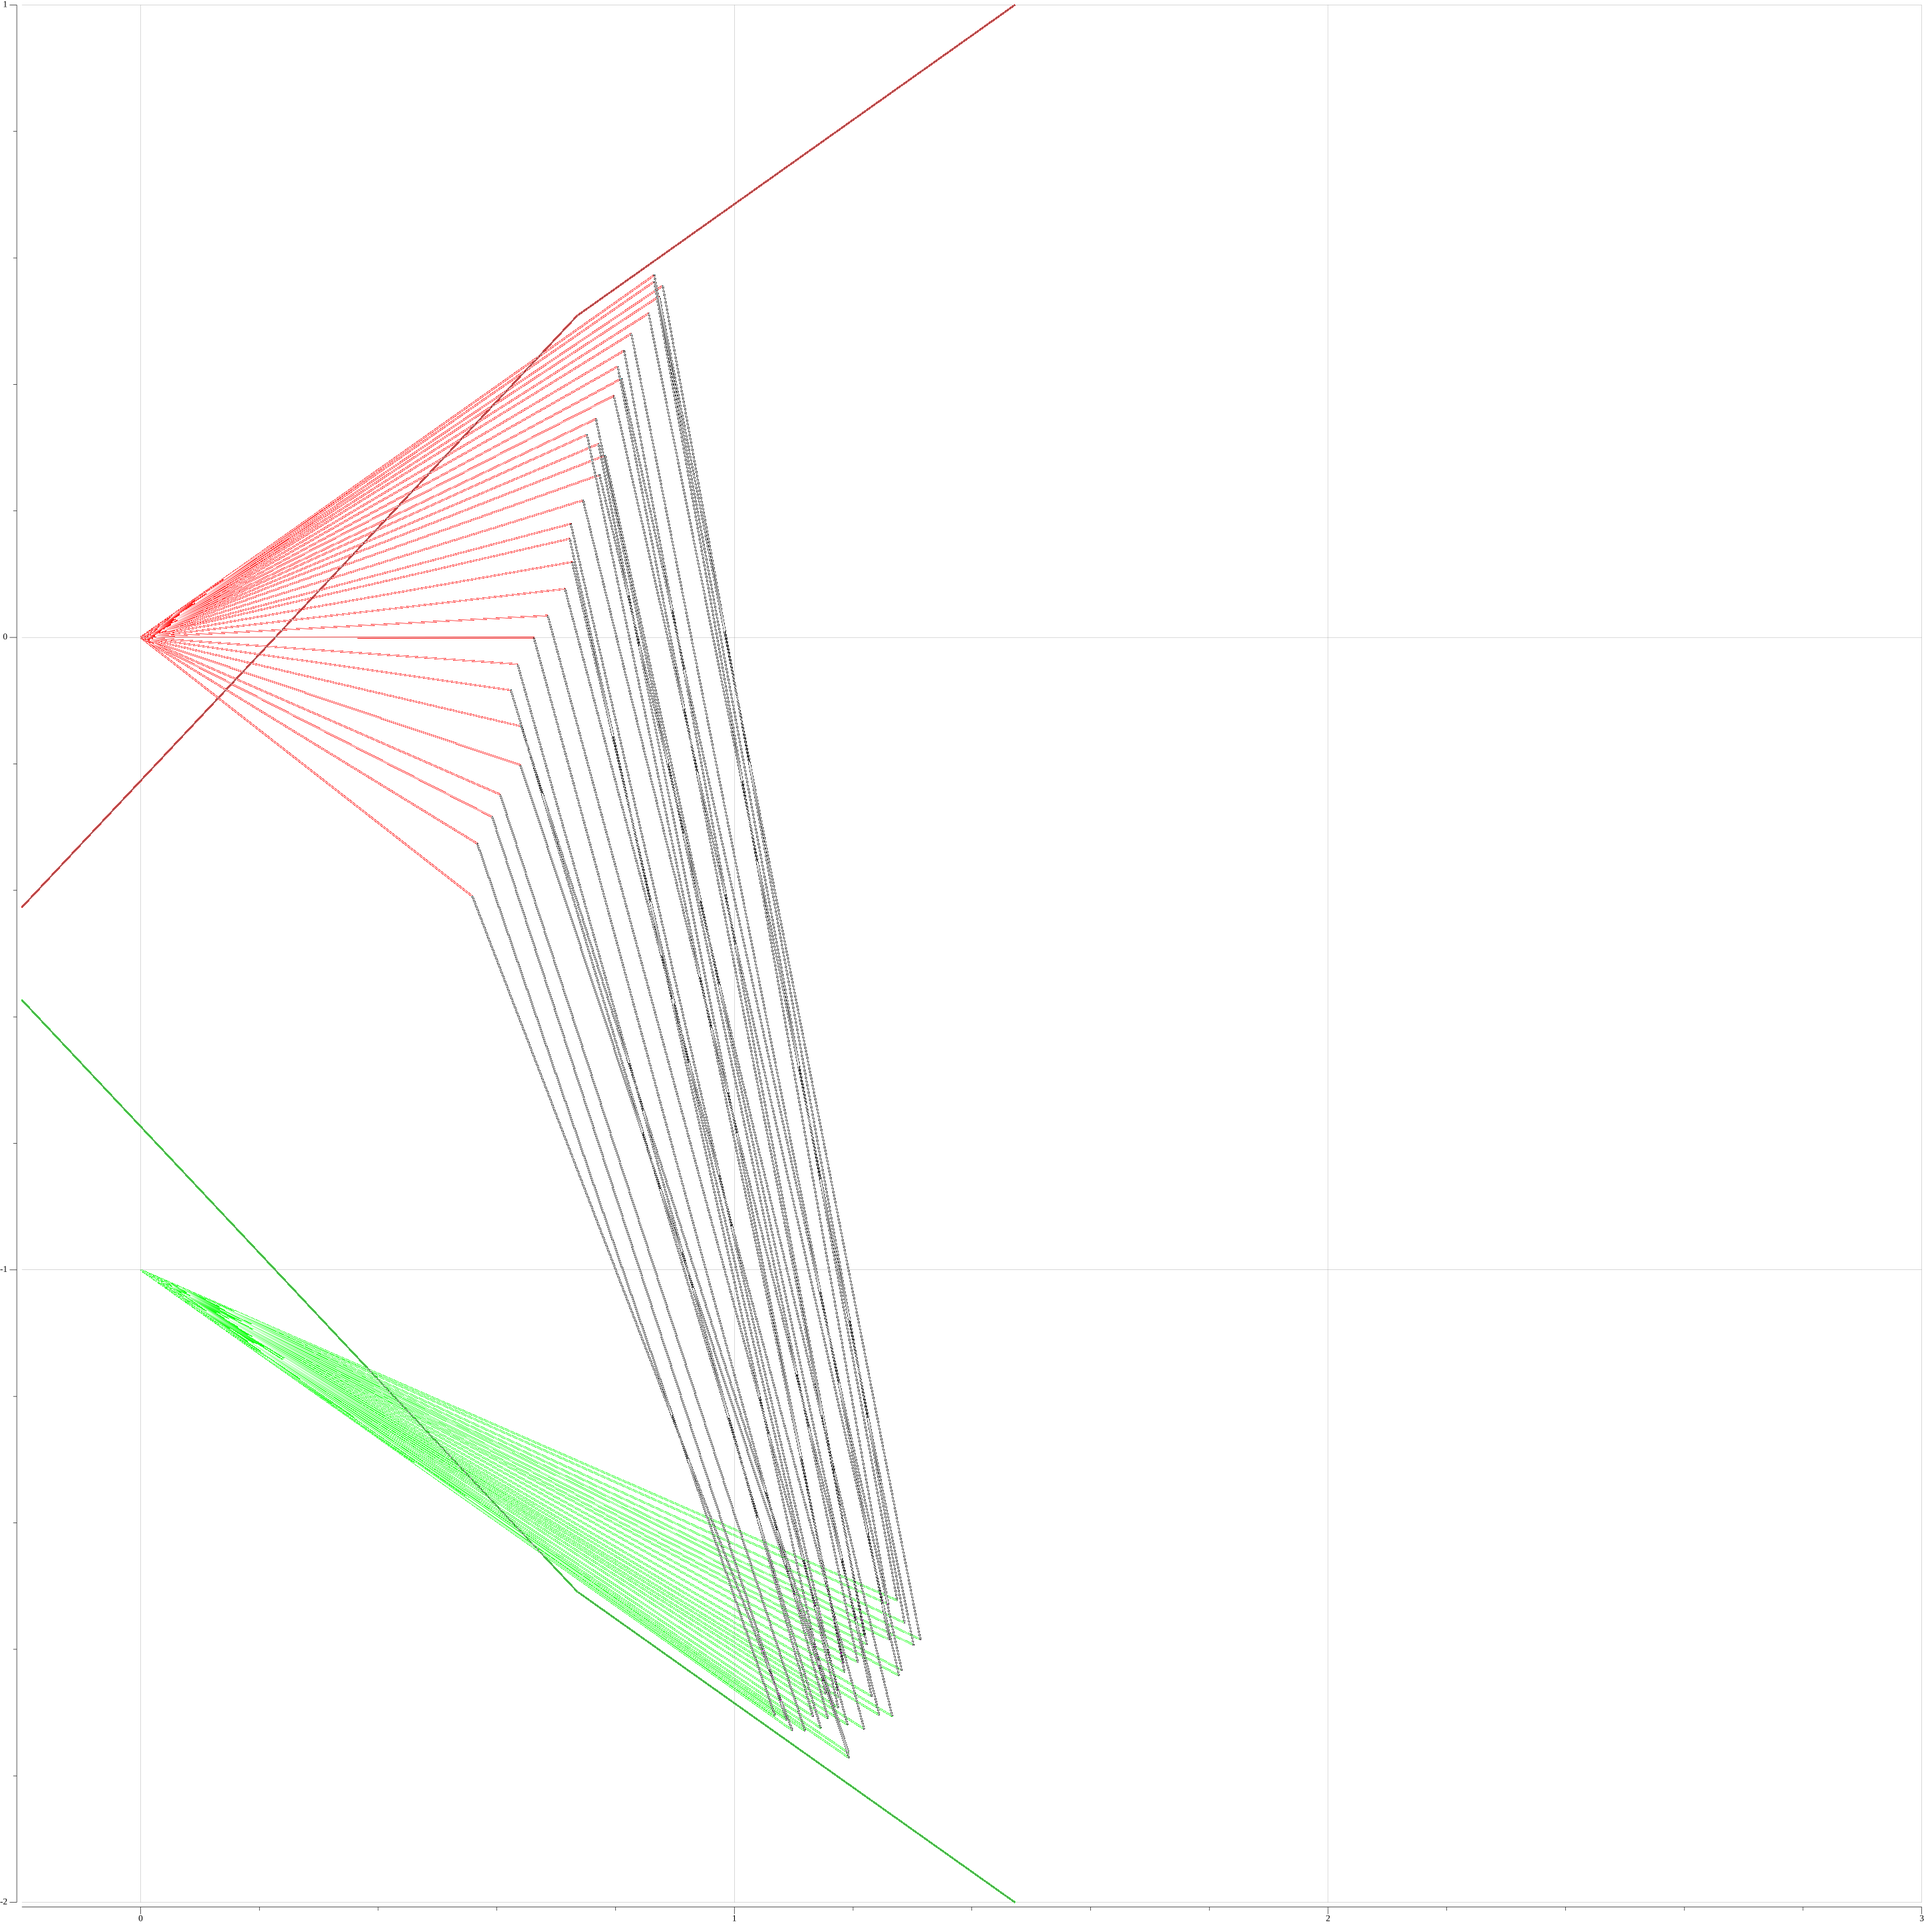
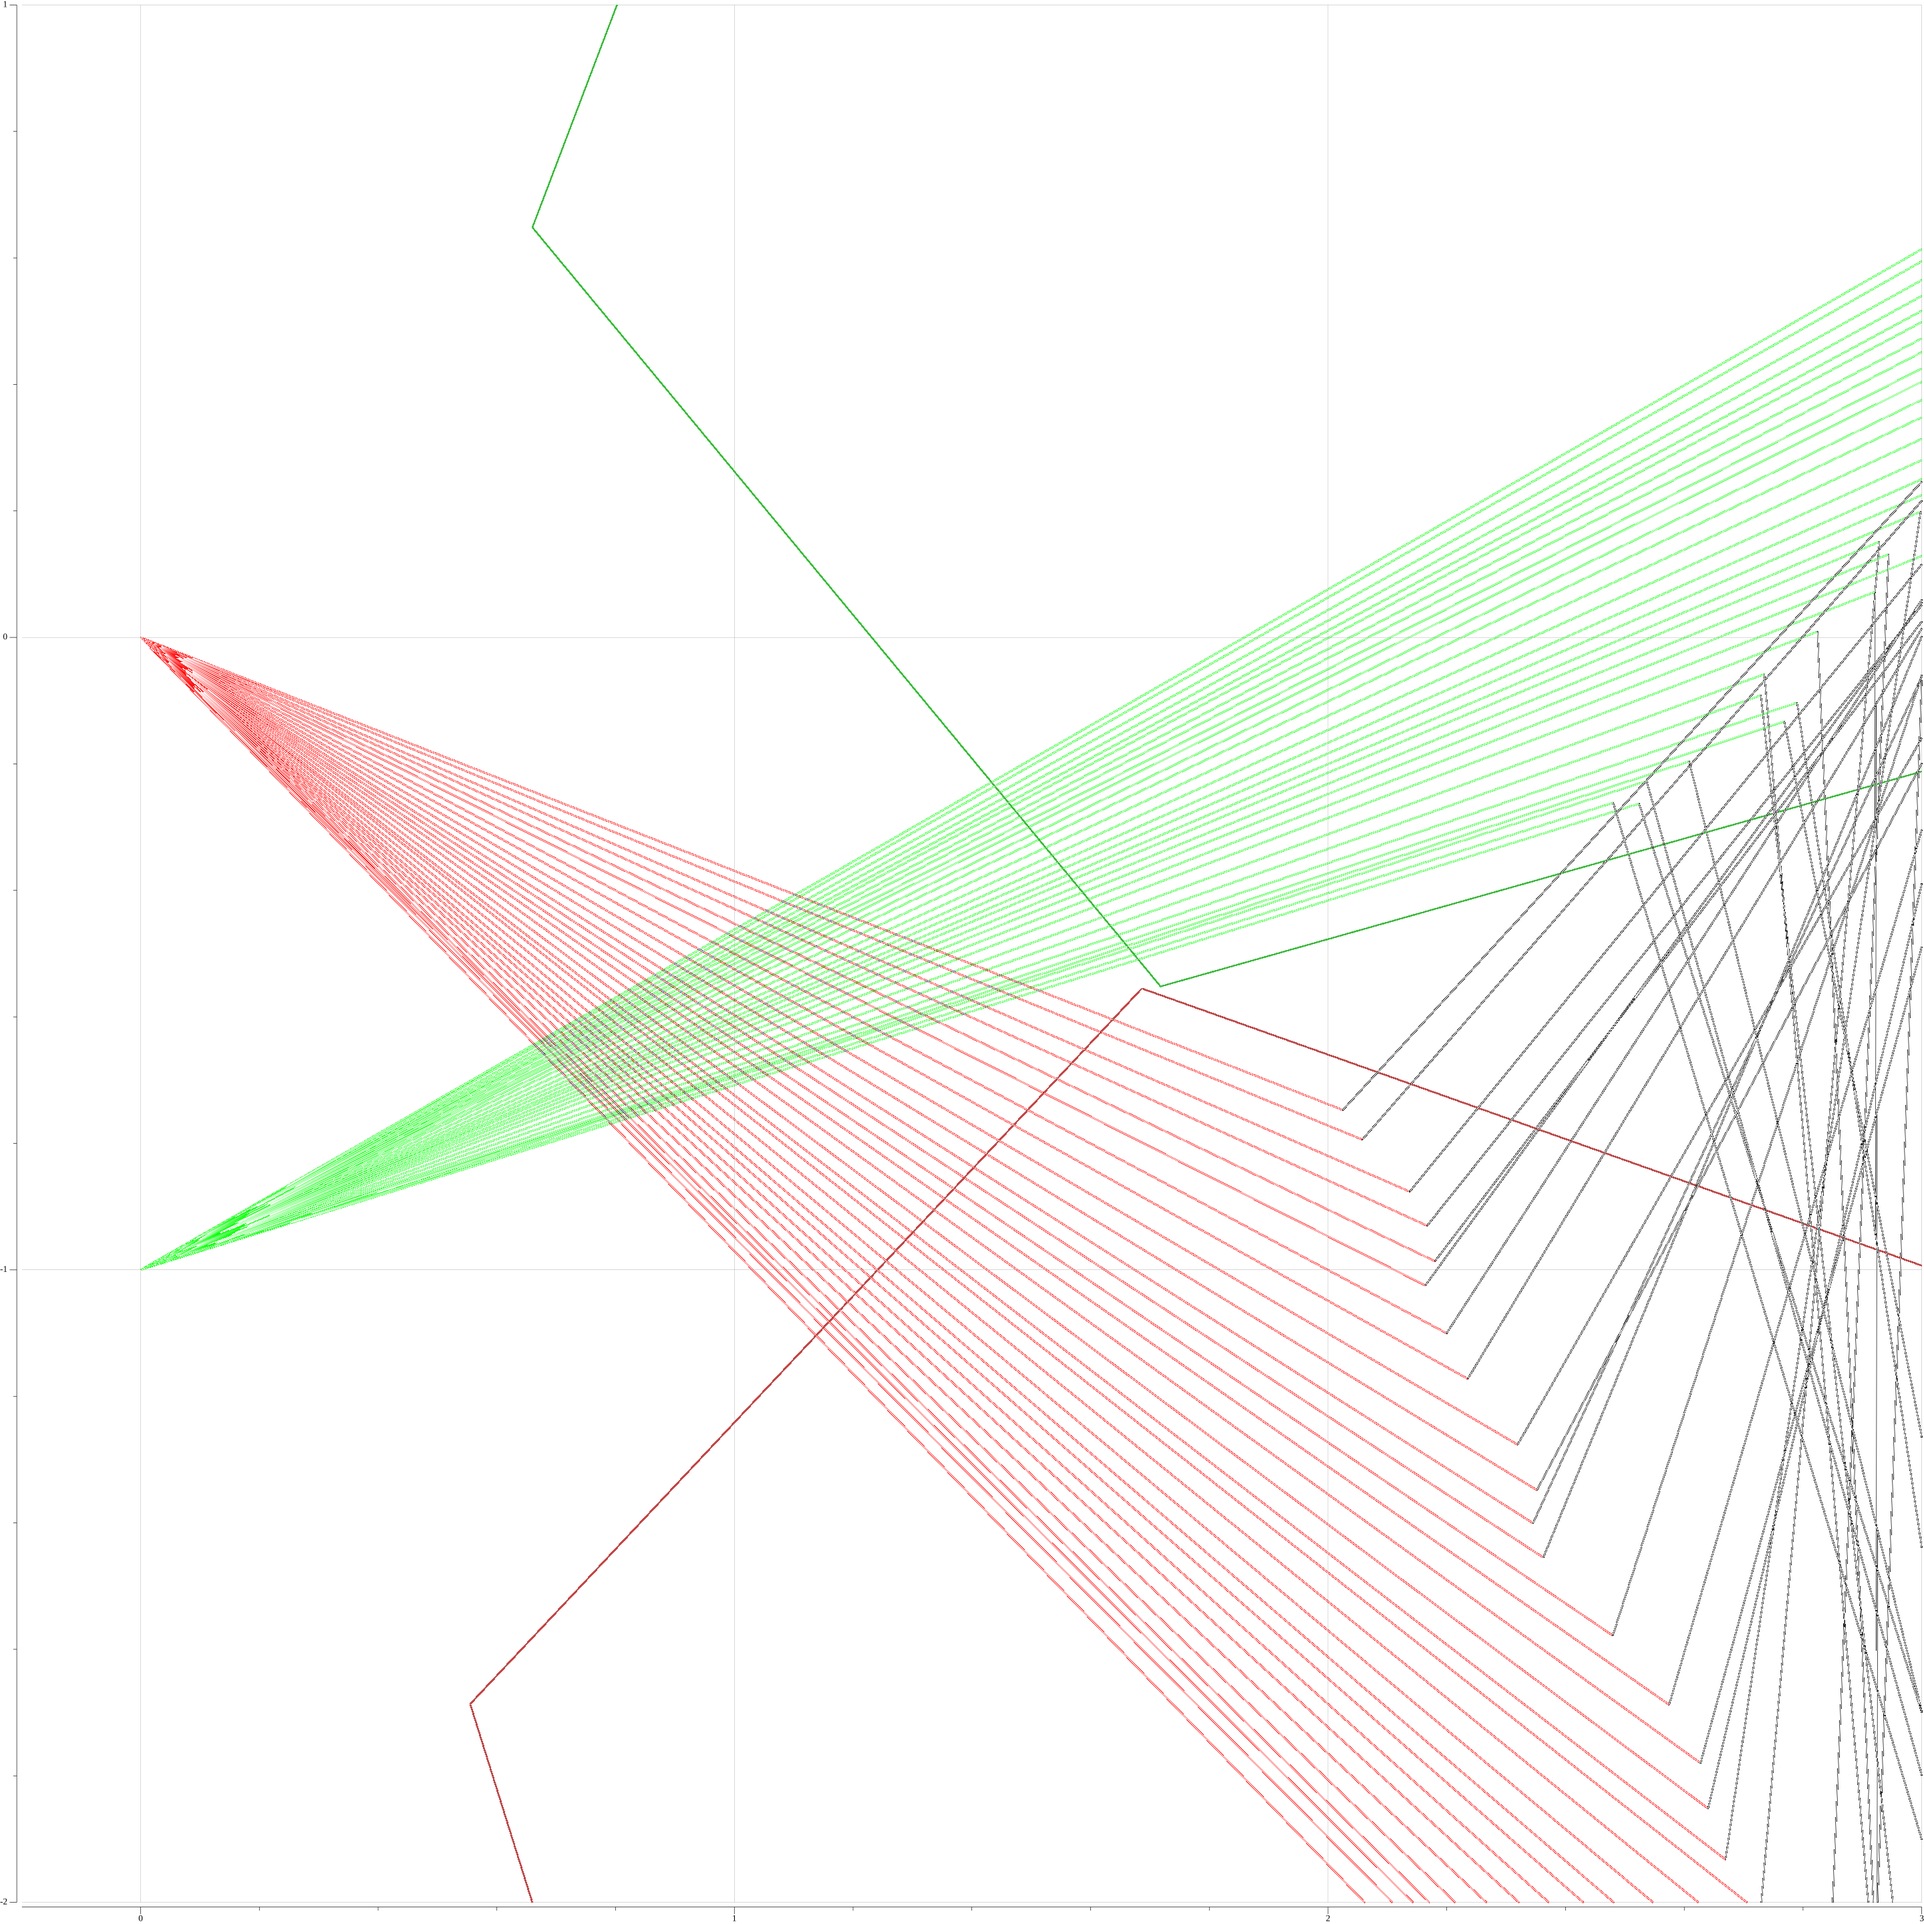
fixed phi

diff --git a/vtrack/regress.go b/vtrack/regress.go
@@ -41,9 +41,9 @@ func NewModel(tj1, tj2 Trajectory, data ...*mat.VecDense) *Model {
 	} else {
 		// Substitute with default parameters
 		model.params = mat.NewVecDense(6, []float64{
-			-0.499 * math.Pi, -0.499 * math.Pi, // theta
-			0, 0,
-			10,   // k
+			-0.06 * math.Pi, -0.18 * math.Pi, // theta
+			-0.25 * math.Pi, 0.23 * math.Pi, // phi
+			1,    // k
 			-0.1, // z0
 		})
 	}
@@ -94,7 +94,7 @@ func (m Model) PrintParams(blender bool) {
 
 func (model *Model) NaiveGradientDecent(dp, mu float64, ntrials int) {
 	for i := 0; i < ntrials; i++ {
-		for j := 0; j < model.nparams; j++ {
+		for j := 0; j < model.nparams-1; j++ {
 			for k := 0; k < 100; k++ {
 				inc := mat.NewVecDense(model.nparams, nil)
 				inc.SetVec(j, -mu*model.GetDiff(j, dp))
@@ -107,7 +107,7 @@ func (model *Model) NaiveGradientDecent(dp, mu float64, ntrials int) {
 func (model *Model) BatchGradientDecent(dp, mu float64, ntrials int) {
 	for i := 0; i < ntrials; i++ {
 		inc := mat.NewVecDense(model.nparams, nil)
-		for j := 0; j < model.nparams-1; j++ {
+		for j := 0; j < 2; j++ {
 			inc.SetVec(j, -model.GetDiff(j, dp))
 		}
 		inc.ScaleVec(1/inc.Norm(2), inc)

diff --git a/main.go b/main.go
@@ -22,11 +22,9 @@ func main() {
 	// for _, z0 := range LinSpace(-0.2, -1.2, 21) {
 	z0 := -0.5
 	params := mat.NewVecDense(6, []float64{
-		// -0.1 * math.Pi, -0.1 * math.Pi, // theta
-		// -0.5 * math.Pi, -0.3 * math.Pi, // phi
 		-0.01 * math.Pi, -0.01 * math.Pi, // theta
-		-0.25 * math.Pi, 0.25 * math.Pi, // phi
-		10, // k
+		-0.25 * math.Pi, 0.23 * math.Pi, // phi
+		1,  // k
 		z0, // z0
 	})
 	model := vtrack.NewModel(ar1.At(0), ar2.At(10), params)
